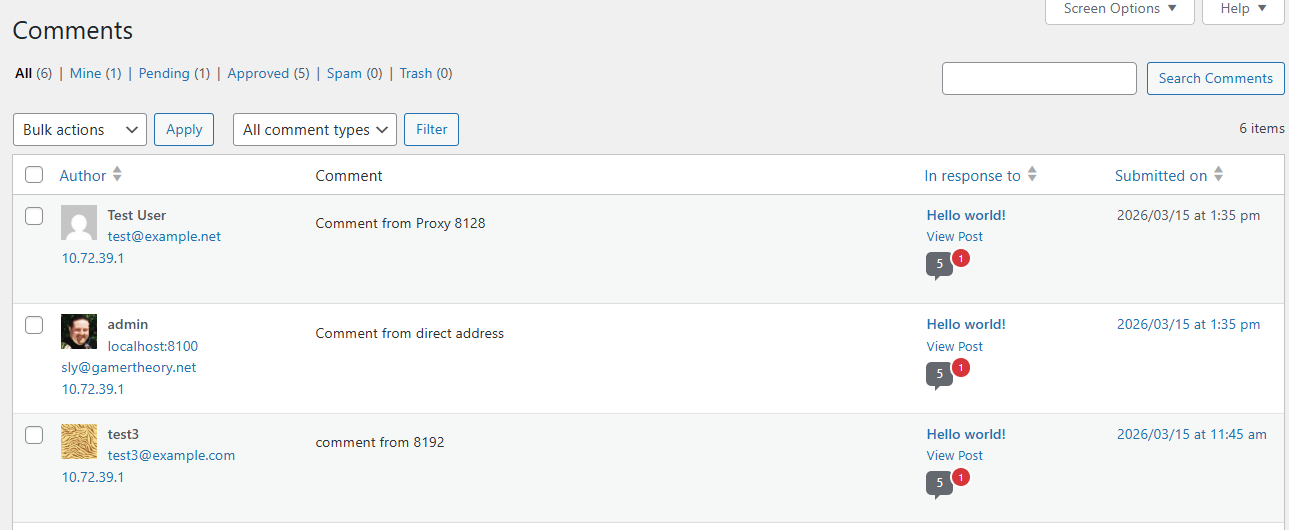
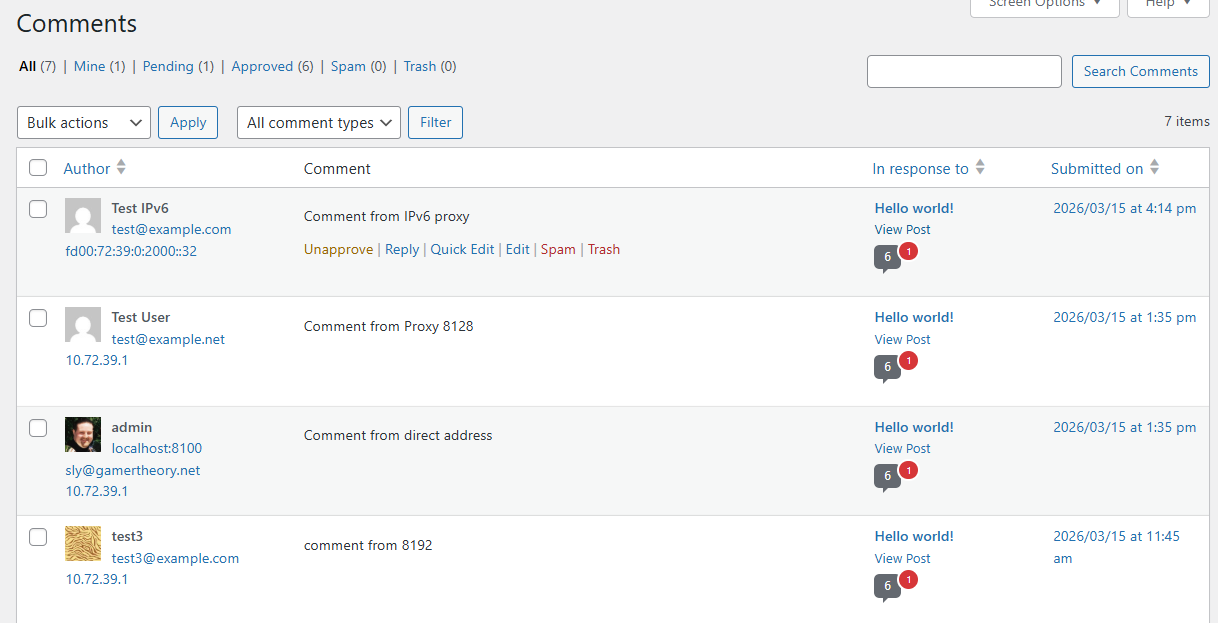
Add IP protocol translation examples

diff --git a/src/AdminPage.php b/src/AdminPage.php
@@ -671,7 +671,7 @@ final class AdminPage {
 						<th><?php echo \esc_html__( 'Time', 'verified-client-ip' ); ?></th>
 						<th><?php echo \esc_html__( 'Method', 'verified-client-ip' ); ?></th>
 						<th><?php echo \esc_html__( 'URI', 'verified-client-ip' ); ?></th>
-						<th><?php echo \esc_html__( 'Original IP', 'verified-client-ip' ); ?></th>
+						<th><?php echo \esc_html__( 'Original REMOTE_ADDR', 'verified-client-ip' ); ?></th>
 						<th><?php echo \esc_html__( 'Resolved IP', 'verified-client-ip' ); ?></th>
 						<th><?php echo \esc_html__( 'Hops', 'verified-client-ip' ); ?></th>
 						<th><?php echo \esc_html__( 'Changed', 'verified-client-ip' ); ?></th>

diff --git a/examples/wp-client-ip/README.md b/examples/wp-client-ip/README.md
@@ -33,6 +33,8 @@ Refresh and check the diagnostics to see how the verified client IP is resolved.
 | 8160      | Proxy B      | 10.72.39.160 | fd00:72:39:0:A000::160 | RFC 7239 `Forwarded` → Proxy A                  |
 | 8161      | Proxy XFF    | 10.72.39.161 | fd00:72:39:0:A100::161 | `X-Forwarded-For` → Proxy A → WordPress         |
 | 8162      | Proxy CF     | 10.72.39.162 | fd00:72:39:0:A200::162 | Cloudflare-sim (`CF-Connecting-IP`) → Proxy A   |
+| 8164      | Proxy 64     | 10.72.39.164 | fd00:72:39:0:A400::164 | IPv6→IPv4 converting → Proxy A (IPv4 upstream)  |
+| 8166      | Proxy 46     | 10.72.39.166 | fd00:72:39:0:A600::166 | IPv4→IPv6 converting → Proxy A (IPv6 upstream)  |
 | 8192      | Proxy C      | 10.72.39.192 | fd00:72:39:0:C000::192 | RFC 7239 `Forwarded` → Proxy B → Proxy A → WP   |
 | 8032/8033 | Test Browser | 10.72.39.32  | fd00:72:39:0:2000::32  | Firefox running in noVNC for IPv6 browser tests |
 
@@ -57,6 +59,16 @@ Client → Proxy XFF (:8161) → Proxy A (:8128) → WordPress (:8064)
 
 Uses the `X-Forwarded-For` header. Configure the X-Forwarded-For scheme
 with Forward Limit 2.
+
+### Protocol-translating proxies (ports 8164, 8166)
+
+```
+Client → Proxy 64 (:8164) → Proxy A (:8128, IPv4 upstream) → WordPress
+Client → Proxy 46 (:8166) → Proxy A (:8128, IPv6 upstream) → WordPress
+```
+
+These proxies listen on both IPv4 and IPv6 but always forward to a single
+fixed-protocol upstream, allowing testing of protocol conversion scenarios:
 
 ### Cloudflare simulation (port 8162)
 
@@ -100,7 +112,14 @@ To test IPv6 from a browser, use Firefox noVNC at https://localhost:8033. This a
 with IPv6 connections to containers. In the browser you can connect direct to the IPv6 address,
 `http://[fd00:72:39:0:4000::64]`, or via one of the proxies, `http://[fd00:72:39:0:C000::192]`.
 
-Client IP calcuation will include IPv6 addresses, e.g. resolved IP `fd00:72:39:0:2000::32`.
+The protocol translating proxies can also be used to test protocol conversion scenarios, resolving
+the correct client IP, even when the initial REMOTE_ADDR (closest proxy) is a different protocol:
+
+| URL                               | Proxy    | Original REMOTE_ADDR     | Client IP               |
+| --------------------------------- | -------- | ------------------------ | ----------------------- |
+| `http://[fd00:72:39:0:A000::160]` | Proxy B  | `fd00:72:39:0:A000::128` | `fd00:72:39:0:2000::32` |
+| `http://10.72.39.166`             | Proxy 46 | `fd00:72:39:0:A000::128` | `10.72.39.32`           |
+| `http://[fd00:72:39:0:A400::164]` | Proxy 64 | `10.72.39.128`           | `fd00:72:39:0:2000::32` |
 
 ## Apache `mod_remoteip` and this plugin
 

diff --git a/docs/user-guide.md b/docs/user-guide.md
@@ -169,7 +169,7 @@ become a no-op.
 
 ### How to tell if this is happening
 
-In the Diagnostics tab, if the **Original IP** column shows the visitor's IP
+In the Diagnostics tab, if the **Original REMOTE_ADDR** column shows the visitor's IP
 (rather than the direct upstream proxy's IP) even before the plugin has
 resolved anything, a web-server-level module is pre-resolving the address.
 

diff --git a/README.md b/README.md
@@ -63,6 +63,9 @@ at the first untrusted hop, which is the true client IP.
 **Diagnostics**
 ![Verified Client IP diagnostics](docs/screen-diagnostics.png)
 
+**IPv6 and protocol translation**
+![IPv6 and protoco translation diagnostics](docs/screen-diagnostics-ipv6.png)
+
 **Diagnostics detail**
 ![Verified Client IP diagnostics detail](docs/screen-diagnostics-detail.png)
 
